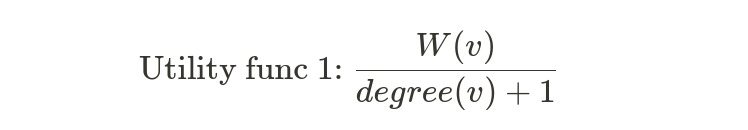
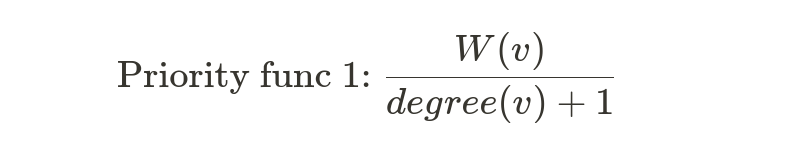
Commit

Changed region(s): [[0.123, 0.2154, 0.7687, 0.8308]]

diff --git a/templates/home.html b/templates/home.html
@@ -8,6 +8,11 @@
     {#  Run a move #}
     <div class="container mt-3">
         <h5>Run a move with a utility function:</h5>
+        <div class="text-secondary">
+            All of the following 3 options use the utility function given below.
+            The difference between weighted & non-weighted utility function is whether to set vertices' "priority".
+            If weighted MIS is selected, priority is counted by the priority function listed below.
+        </div>
         <div class="text-danger" id="create_graph_first_hint">Hint: Create a graph first before running a
             move.
         </div>
@@ -20,13 +25,13 @@
         <div class="form-check">
             <input id="utility1" class="form-check-input" type="radio" name="flexRadioDefault">
             <label class="form-check-label" for="utility1">
-                Weighted maximum independent set (utility function 1)
+                Weighted maximum independent set (priority function 1)
             </label>
         </div>
         <div class="form-check">
             <input id="utility2" class="form-check-input" type="radio" name="flexRadioDefault">
             <label class="form-check-label" for="utility2">
-                Weighted maximum independent set (utility function 2)
+                Weighted maximum independent set (priority function 2)
             </label>
         </div>
         <div class="container row">
@@ -64,7 +69,7 @@
             Construct graph using ws model. Randomize the strategies and weights.
             Each vertex: 50% to use strategy 1 or 0; weight randomly selected from 1~5, each is 20%;
             all vertices' weight expected sum is 3. Rewiring probability will be tested from 0.99~1.07 per 0.02. Alpha
-            used is 2.0.
+            used is 2.0. K must be even.
         </p>
         <form id="run_game_form" class="">
             <div class="row">
@@ -125,6 +130,7 @@
         {# Create a ws model #}
         <div class="mt-3">
             <h5>Create a ws model graph:</h5>
+            <div>K must be even.</div>
             <form id="ws_graph_form" class="">
                 <div class="row">
                     <div class="col-md-4 col-sm-6">
@@ -170,6 +176,14 @@
                 <button type="submit" class="btn btn-primary mb-3">Create</button>
             </form>
         </div>
+        {#  Check if a set is an independent set. #}
+        <div class="mt-3">
+            <h5>Check if the graph is an independent set.</h5>
+            <div> (Set of all vertices with strategy 1)</div>
+            <div class="text-danger">Hint: Create a graph first before checking.</div>
+            <button id="check_IS_btn" class="btn btn-primary">Check</button>
+            <div id="checked_result" class=""></div>
+        </div>
 
         {# Toasts #}
         {# Successfully #}
@@ -204,7 +218,7 @@
         </div>
 
         {# P.S. #}
-        <h5>Notes</h5>
+        <h5 class="mt-3">Notes</h5>
         <ul>
             <li>Octagon means it has a better choice in the last turn.</li>
             <li>K must be even.</li>
@@ -213,6 +227,8 @@
             <li>"w1.0" means this vertex's weight is 1.0.</li>
             <li>Showing image may take some time.</li>
             <li>Not to set weight to be zero, or it may encounter divided by zero.</li>
+            <li>If you turn on random-weight-initialization, each weight will be randomly picked from 0~n-1, where n is the total number of vertices.</li>
+            <li>You can check the README.md for more information.</li>
         </ul>
     </div>
 
@@ -232,7 +248,6 @@
             }
             let toast = new bootstrap.Toast(toastLiveExample)
             toast.show()
-
         }
 
         function submit_ajax(data, url) {
@@ -320,6 +335,25 @@
                 'n_games': $('#run_game_n_games_input').val(),
             }
             submit_ajax(data, url)
+            e.preventDefault()
+        });
+
+        {#  Click "check IS"  #}
+        $(document).on('click', '#check_IS_btn', function (e) {
+            let codes = $('#contentCodes').text()
+            let url = '/check_independent_set'
+            let data = {}
+            $.ajax({
+                type: "POST",
+                contentType: 'application/json;charset=UTF-8',
+                url: url,
+                data: JSON.stringify({data: data, codes: codes}), // serializes the form's elements.
+                success: function (response) {
+                    console.log(response)
+                    show_toast(response['state'])
+                    $("#checked_result").text(response['result'])
+                }
+            })
             e.preventDefault()
         });
 

diff --git a/game/game.py b/game/game.py
@@ -108,7 +108,8 @@ class Graph:
 
     def serialize(self) -> str:
         return std_json.dumps(
-            {'edges': self.edges.tolist(), 'strategies': list(self.strategies), 'weights': list(self.weights)})
+            {'edges': self.edges.tolist(), 'strategies': list(self.strategies),
+             'weights': list(map(float, self.weights))})
 
     @staticmethod
     def create_graph_with_edges(edges: np.ndarray):
@@ -145,7 +146,10 @@ class VertexWeight:
         # return (np.floor(np.random.random((n_vertices,)) * 5) % 5 + 1)
         # return np.random.normal(10, 3, (n_vertices,))
         # return np.random.randint(1, n_vertices + 1, size=(n_vertices,))
-        return np.random.randint(0, n_vertices, size=(n_vertices,))
+        # return np.random.randint(0, n_vertices, size=(n_vertices,))
+        pool = np.arange(n_vertices)
+        np.random.shuffle(pool)
+        return pool.tolist()
 
 
 class Edge:
@@ -315,6 +319,27 @@ class Game:
                 break
             move_cnt += 1
         return graph, move_cnt
+
+    @staticmethod
+    def check_real_independent_set(graph: Graph):
+        # Method: test each vertex
+        #         Turn a vertex with strategy 0 to 1, and see if it doesn't connect any vertices with strategy 1.
+        #         If so, the new graph is an independent set so the original graph is not a "maximal" independent set.
+        n_vertices = len(graph.edges)
+        for v in range(n_vertices):
+            if graph.strategies[v] != 0.:
+                continue
+            no_neighbor_with_s1 = True
+            # See if a strategy-0 vertex's all neighbors are with strategy-0.
+            for other_v in range(n_vertices):
+                if other_v == v:
+                    continue
+                if graph.edges[v][other_v] == 1. and graph.strategies[other_v] == 1.:
+                    no_neighbor_with_s1 = False
+                    break
+            if no_neighbor_with_s1 is True:
+                return False  # TODO: check again
+        return True
 
 # times = 100
 # avg_moves = []

diff --git a/app.py b/app.py
@@ -124,6 +124,17 @@ def run_a_move():
             'weight_sum': graph.strategy_1_weight_sum()}
 
 
+@app.route('/check_independent_set', methods=['POST'])
+def check_independent_set():
+    data, codes = get_data_and_codes()
+    graph = Graph(strategies=None, edges=None, weights=None)
+    graph.deserialize(codes=codes)
+    # Check
+    result = Game.check_real_independent_set(graph=graph)
+    #
+    return {'state': 'successful', 'result': result}
+
+
 @app.route('/run_games', methods=['POST'])
 def run_games():
     data, codes = get_data_and_codes()

diff --git a/README.md b/README.md
@@ -1,4 +1,102 @@
-#
+# Finding Maximal Independent Set using Game Theory Approach
 
-### Found
+We analyze by game-theoretical method.
+Imagine every vertex is a player in a game. Each player select a strategy with highest payoff.
+There are two strategies in total:
 
+- Strategy 1 = the vertex is in the independent set.
+- Strategy 2 = the vertex is NOT in the independent set.
+
+By designing useful utility function, we make the graph find the maximal independent set itself.
+We adopt this utility function[1]: 
+![MIS Utility Function](static/img/readme/mis_utility.png)
+
+Keywords: Maximal Independent Set (MIS), Game Theory, Distributed System
+
+## Outline
+
+- Install
+- How to Run UI
+- How to Use UI 
+    - Create a graph
+    - Check if the graph is an independent set
+    - Run a move
+    - Simulate
+    - Programming Languages & Framework
+    - Plot
+- Programming Languages & Framework
+- Notes
+- Todos
+- Reference
+
+## Usage
+
+###  Install
+```shell script
+sudo apt install graphviz-python
+pip3 install -r requirements.txt
+```
+
+### How to Run UI
+```shell script
+cd ${the folder where app.py in}
+python3 app.py
+Open browser and go to 127.0.0.1:5000
+```
+
+### How to Use
+#### Create a graph
+Two ways:
+1. Create a custom graph:
+
+    Note that adjacency matrix should be filled with bi-directional edges to become non-directional edges. 
+    ![](static/img/readme/c1.png)
+2. Create a ws model graph:
+    
+    ![](static/img/readme/c2.png)
+
+#### Check if the graph is an independent set
+
+![](static/img/readme/c3.png)
+
+#### Run a move
+
+Find all vertices which has at least one other strategy that bring the vertex more utility. Randomly select one of them to switch to the better strategy. It'll remain unchanged if all vertices reach a Nash equilibrium.
+ 
+- Before running a move, please create a graph first.
+- Created graph is showed on top of the webpage.
+- Octagon means it has other strategy which can make the vertex get higher utility.
+- Triple octagon means it's the vertex chosen to switch to the other strategy.
+
+![](static/img/readme/r1.png)
+
+#### Simulate
+
+By providing n, k, rewiring probability, and some options, the system will simulate for you and showed on top of the webpage.
+It may take lots of time to simulate. The result will be showed in the image area after finishing simulating.  
+![](static/img/readme/r2.png)
+
+#### Plot
+
+The created image and simulation result will be displayed at the top. You can plot custom graph by create it first and you will see it at the top of the webpage.
+![](static/img/readme/img_example.png)
+
+## Programming Languages & Framework
+
+This project are writen by:
+- Python3
+- Backend: Flask
+- Frontend: JavaScript/CSS/HTML5/JQuery/Bootstrap
+
+### Notes
+
+-  If you encounter `graphviz.backend.ExecutableNotFound: failed`, check if you install graphviz successfully and ensure its executable is in the PATH.
+
+### Todos
+
+- [ ] Fix graphviz excusable-not-found problem or find other solution to plot. Make this project can display on Heroku.
+- [ ] Add a blog article which describe some research.
+
+### Reference
+1. L.-H. Yen, J.-Y. Huang, and V. Turau, “Designing self-stabilizing systems using game theory,” ACM Trans. on Autonomous and Adaptive Systems, 11(3), Sept. 2016.
+2. Wikipedia: [Watts–Strogatz model](https://en.wikipedia.org/wiki/Watts%E2%80%93Strogatz_model)
